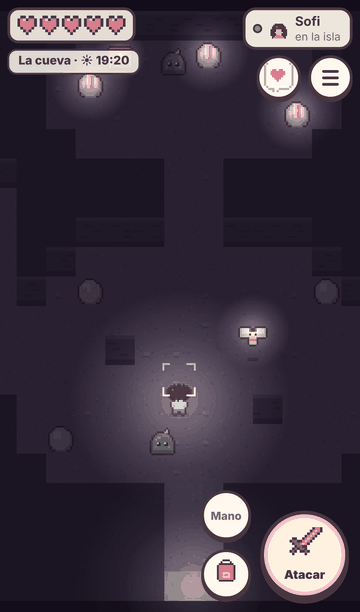
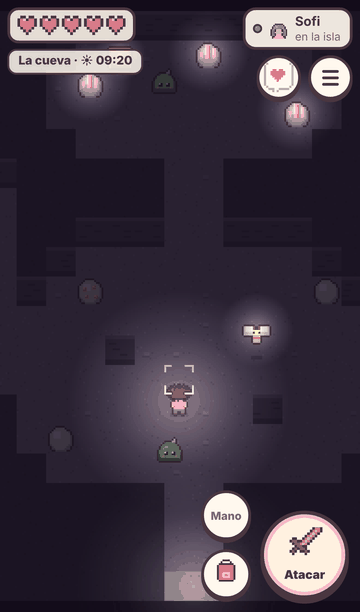
Pulido: atajos, avisos, carga sin servidor y PWA verificada
- Atajo para comer desde el botón "Mano" (útil en la cueva).
- Los avisos repetidos no se apilan; los menús emergentes se cierran al
  tocar el mapa.
- La pantalla de carga avisa si no hay servidor y permite volver.
- La URL de invitación se limpia al entrar; música más tranquila de noche.
- Sin menú contextual al mantener apretado en iPhone.
- E2E: verifica que el service worker se registre y que el manifest sea
  instalable; capturas actualizadas.

Claude-Session: https://claude.ai/code/session_013FHdwBB7TiEWccrkR7Sr1x

diff --git a/public/js/ui.js b/public/js/ui.js
@@ -62,6 +62,7 @@ export class UI {
     );
     this.sheet = document.getElementById('sheet');
     this.toasts = document.getElementById('toasts');
+    document.getElementById('touch').addEventListener('pointerdown', () => { this.emotes.hidden = true; this.handPop.hidden = true; });
   }
 
   wireState() {
@@ -130,6 +131,15 @@ export class UI {
         h('button', { type: 'button', class: 'cell', onclick: () => { this.game.hand = null; this.renderHand(); this.handPop.hidden = true; } }, h('span', { class: 'hand-empty', text: 'Nada' })),
         items.map(k => h('button', { type: 'button', class: 'cell' + (this.game.hand === k ? ' on' : ''), 'aria-label': D.ITEMS[k].name, onclick: () => { this.game.hand = k; this.renderHand(); this.handPop.hidden = true; } }, icon(k), h('span', { class: 'badge', text: S.me.inv[k] })))),
     );
+    // atajo para comer sin abrir la mochila (útil en la cueva)
+    const food = Object.keys(S.me.inv).filter(k => D.ITEMS[k]?.heal).sort((a, b) => D.ITEMS[a].heal - D.ITEMS[b].heal);
+    if (food.length && S.me.hp < D.MAX_HP) {
+      this.handPop.append(h('p', { class: 'pop-title', text: 'Comer algo' }), h('div', { class: 'row' }, food.slice(0, 4).map(k => h('button', { type: 'button', class: 'btn tiny', onclick: async () => {
+        const r = await this.net.act('eat', { item: k });
+        if (!r.ok) this.toast(r.err, 'warn');
+        this.handPop.hidden = true;
+      } }, icon(k, 'ico sm'), `+${D.ITEMS[k].heal / 2}♥`))));
+    }
     this.handPop.hidden = false;
     this.emotes.hidden = true;
   }
@@ -152,6 +162,7 @@ export class UI {
   tickHud() {
     if (!S.ready) return;
     this.renderPlace();
+    if (S.local.map === 'isla') audio.setMood(dayInfo(this.net.now()).night ? 'noche' : 'isla');
     this.renderBanner();
     if (partner() && !partner().online) this.renderPartner();
     if (this.sheet && !this.sheet.hidden && this.tab === 'desafios') this.refreshSheet();
@@ -159,6 +170,9 @@ export class UI {
 
   toast(msg, kind = 'info') {
     if (!msg) return;
+    const now = performance.now();
+    if (this.lastToast && this.lastToast.msg === msg && now - this.lastToast.at < 1800) return; // sin repetir el mismo aviso
+    this.lastToast = { msg, at: now };
     const el = h('div', { class: 'toast ' + kind, role: 'status' }, msg);
     this.toasts.append(el);
     while (this.toasts.children.length > 3) this.toasts.firstChild.remove();

diff --git a/public/js/main.js b/public/js/main.js
@@ -39,6 +39,11 @@ document.addEventListener('dblclick', (e) => e.preventDefault());
 // ---------------------------------------------------------------- conexión
 net.onStatus = (s) => {
   ui.setOffline(s);
+  const lc = document.querySelector('.loading p');
+  if (lc && !S.ready && s === 'offline') {
+    lc.textContent = 'No hay conexión con el servidor. Sigo intentando…';
+    if (!document.querySelector('.loading .btn')) lc.after(h('button', { type: 'button', class: 'btn ghost', onclick: () => { net.stop(); showTitle(); } }, 'Volver al inicio'));
+  }
   const el = $('offline');
   if (!el.hidden) {
     $('offline-msg').textContent = s === 'connecting' ? 'Conectando con la isla…' : 'Se perdió la conexión. Reconectando…';
@@ -46,6 +51,7 @@ net.onStatus = (s) => {
 };
 net.on('token', (m) => { try { localStorage.setItem(TOKEN_KEY, m.token); } catch { /* */ } });
 net.on('welcome', () => {
+  if (location.search.includes('codigo=')) history.replaceState(null, '', location.pathname);
   clear($('screens'));
   $('hud').hidden = false;
   $('touch').hidden = false;

diff --git a/public/css/style.css b/public/css/style.css
@@ -24,7 +24,7 @@ html, body {
   background: #2f2632; color: var(--ink);
   font-family: var(--font); font-size: 16px; line-height: 1.35;
   -webkit-tap-highlight-color: transparent; -webkit-text-size-adjust: 100%;
-  overscroll-behavior: none; touch-action: none; user-select: none; -webkit-user-select: none;
+  overscroll-behavior: none; touch-action: none; user-select: none; -webkit-user-select: none; -webkit-touch-callout: none;
 }
 input, textarea { user-select: text; -webkit-user-select: text; touch-action: manipulation; }
 button { font-family: inherit; color: inherit; cursor: pointer; touch-action: manipulation; }
